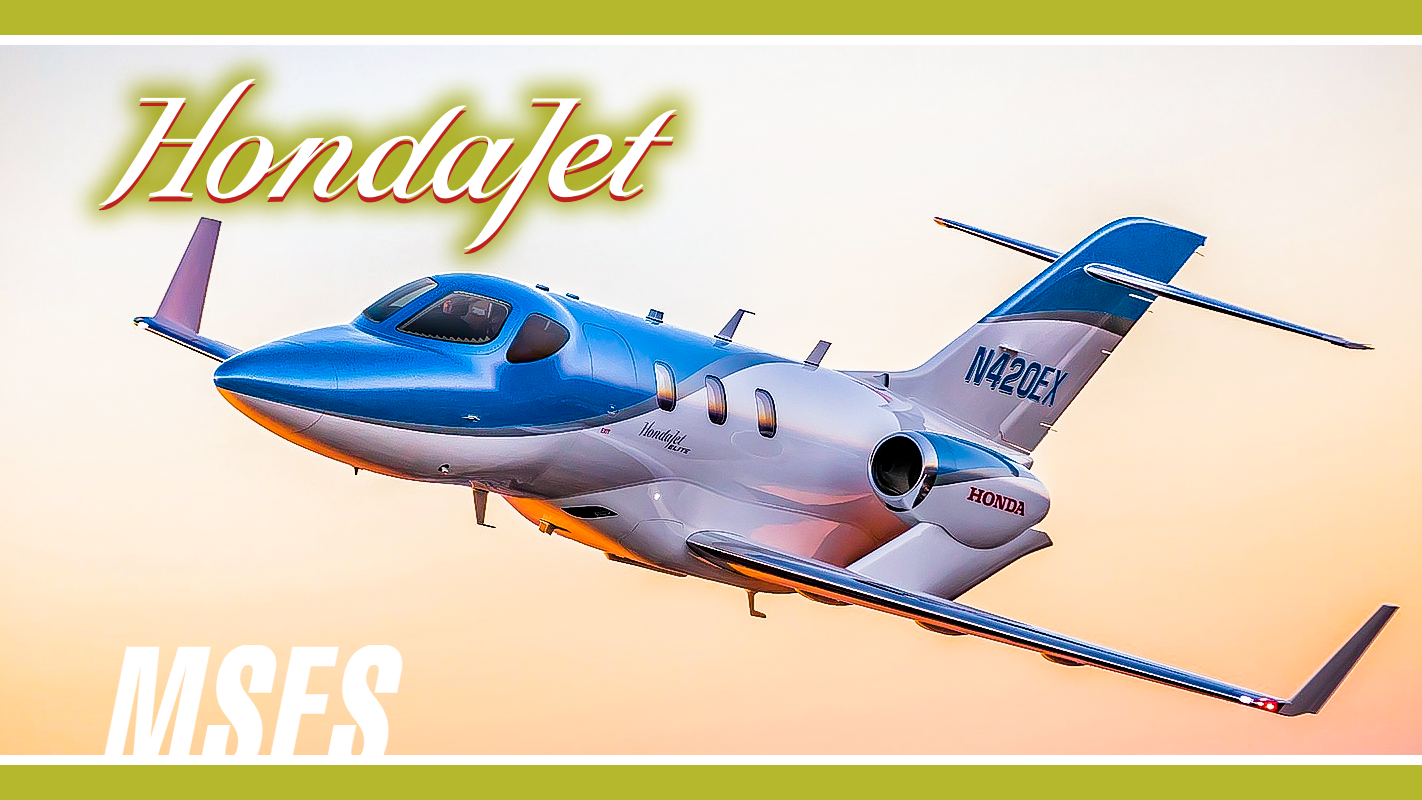
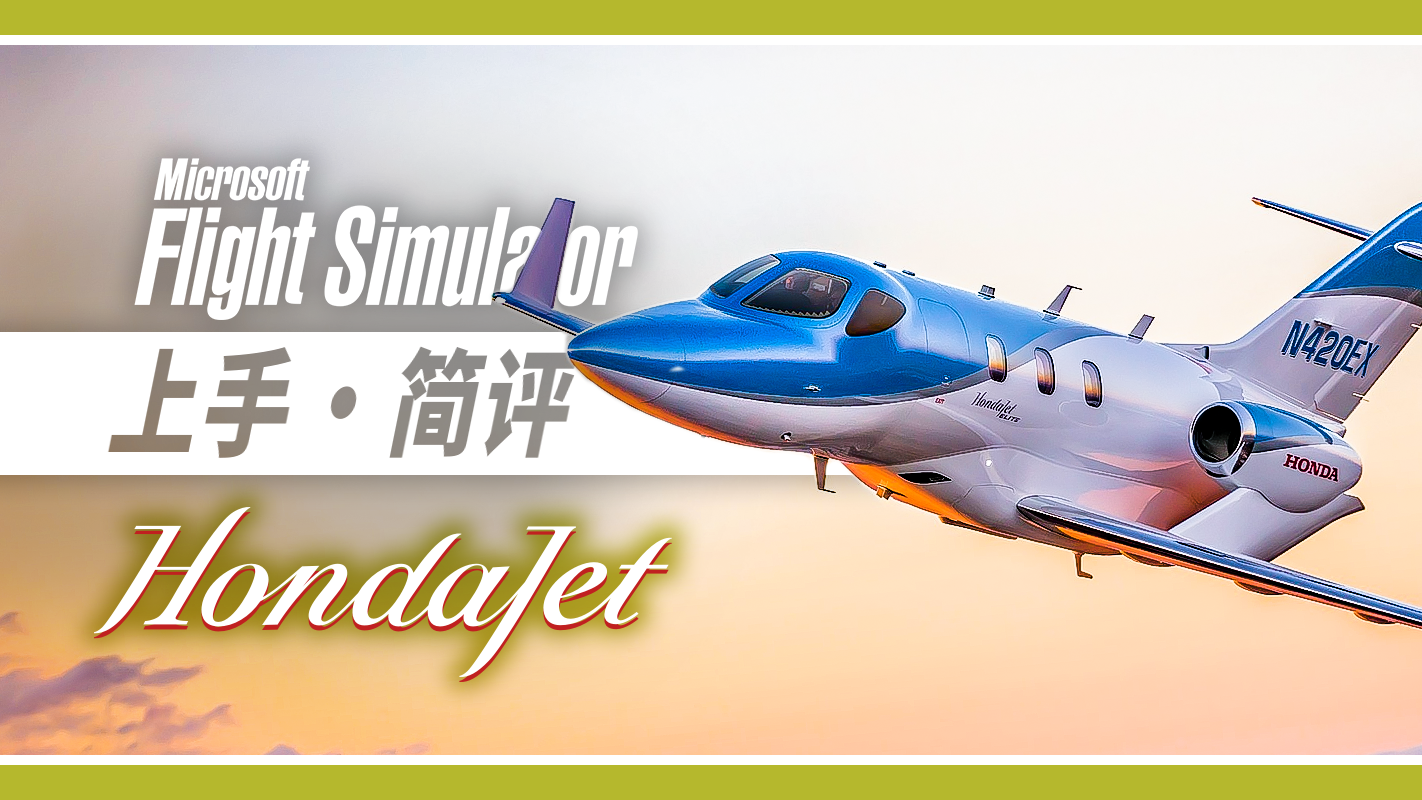
new vid

diff --git a/data/videos.ts b/data/videos.ts
@@ -3,6 +3,22 @@ import { VideoItem } from '@types';
 const videos: VideoItem[] = [
     {
         name: {
+            zh: '简讯：官方汉化居然提前了？！',
+        },
+        des: {
+            zh: '塞斯纳310R ＶＳ F/A-18E 超级大黄蜂',
+        },
+        thumbnailOriginal: './thumbnails/20220611.png',
+        link: {
+            youtube: 'https://youtube.com/shorts/-mHSSrWD2ls?feature=share',
+            bilibili: 'https://www.bilibili.com/video/BV1sY4y1G7W9',
+        },
+        tag: ['news'],
+        release: new Date('2022-06-11T11:00:00+0800').valueOf(),
+    },
+
+    {
+        name: {
             zh: '[模拟飞行WTF] 塞斯纳对决大黄蜂',
         },
         des: {
@@ -19,7 +35,7 @@ const videos: VideoItem[] = [
 
     {
         name: {
-            zh: '本田喷气——机模值不值？',
+            zh: '本田喷气，机模值不值？',
         },
         des: {
             zh: '本田喷气 HondaJet 登陆《微软模拟飞行》，值不值25美元的标价？在精品机模云集的当下，她是否有容身之地？在本期节目中我们就来一探究竟。',
@@ -115,7 +131,7 @@ const videos: VideoItem[] = [
 
     {
         name: {
-            zh: '需要保养的她，竟是最强通航插件机？',
+            zh: '最强通航插件机：MILVIZ塞斯纳310R',
         },
         des: {
             zh: '《微软模拟飞行》天花板级的飞机模组近期开始涌现，通航方面也有一款精品于近期问世——来自 MILVIZ 的塞斯纳 310R。这款飞机模组一经问世便在模飞圈一炮走红，很多飞友都称其为通航飞机新标杆。售价40美元的她到底有什么不一样的地方？在本期节目中我们就来一探究竟。',
